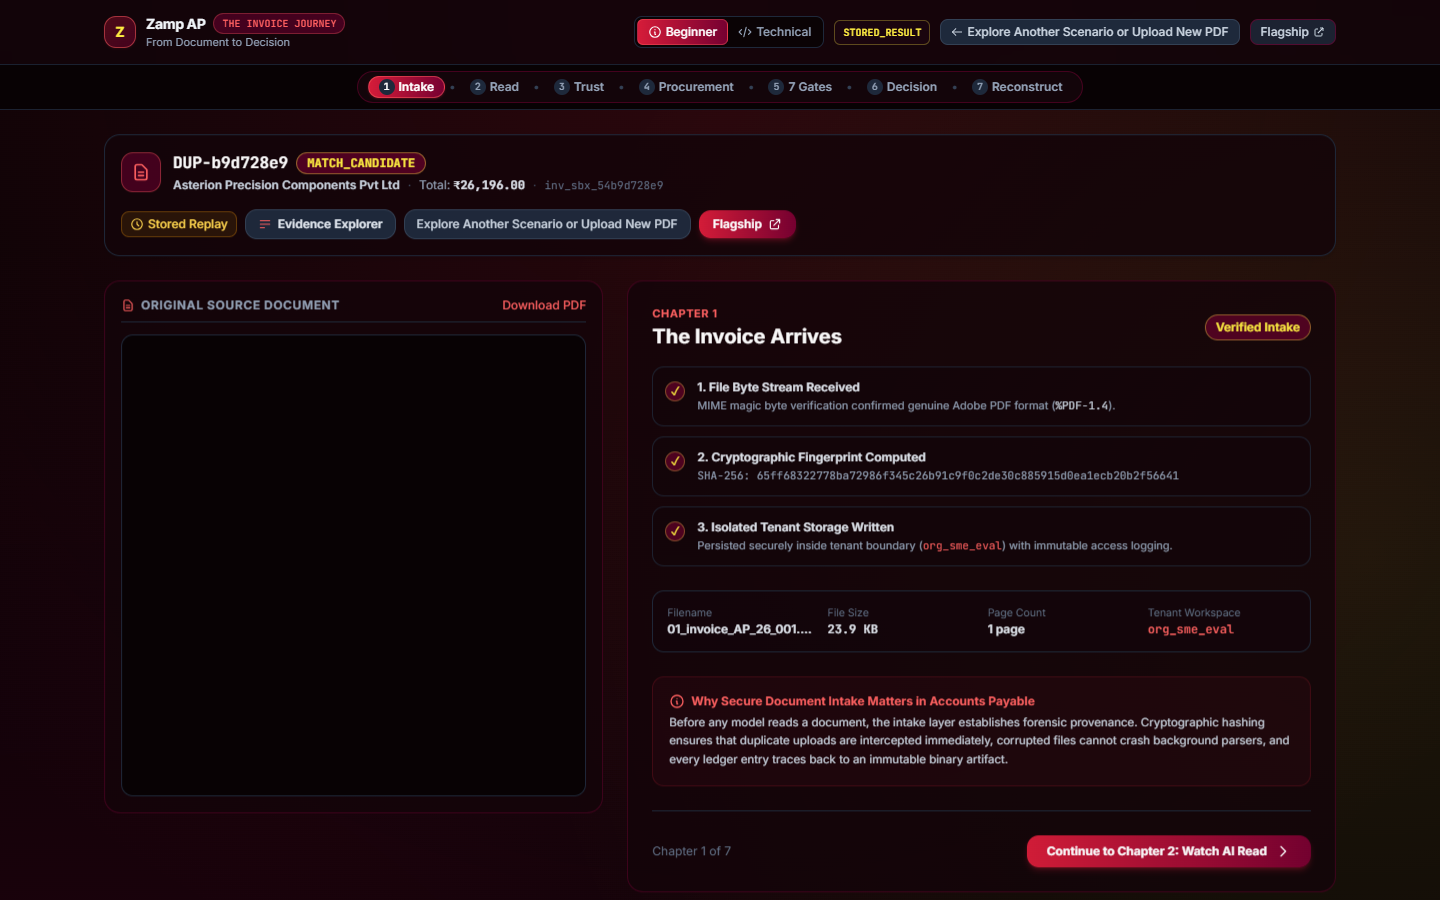
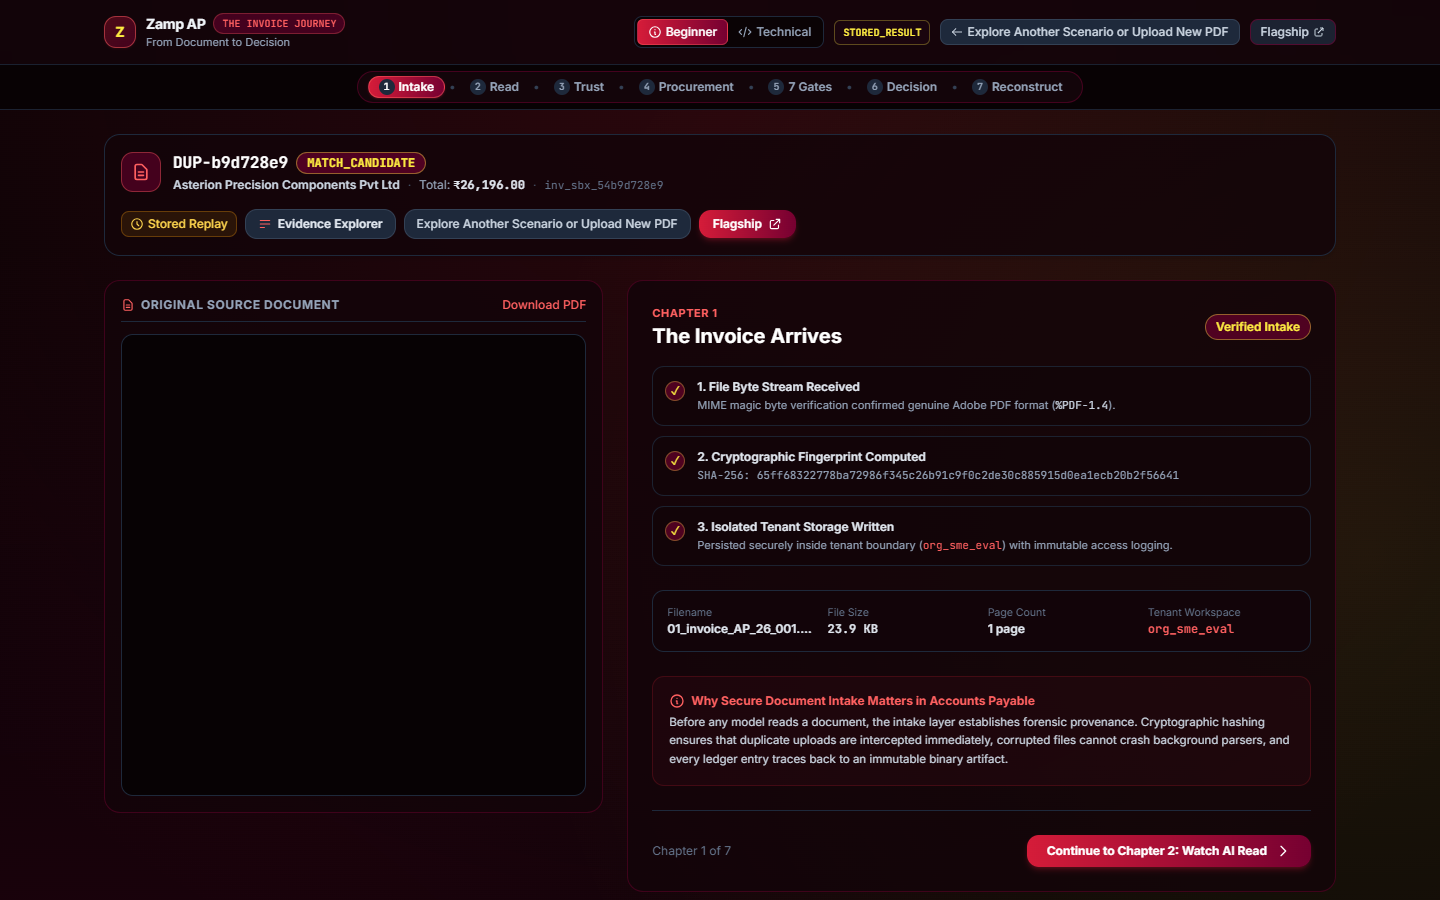
fix(sandbox): add explicit evaluator auth verification and session recovery to uploadCustomPdf

diff --git a/engine/templates/sandbox.html b/engine/templates/sandbox.html
@@ -1664,6 +1664,14 @@
 
     // Upload custom PDF
     async function uploadCustomPdf(file) {
+      if (!getAuthToken()) {
+        const shouldLogin = confirm("Authentication required: Live invoice ingestion requires an authenticated evaluation session. Would you like to log in to the AP Command Center now?");
+        if (shouldLogin) {
+          window.location.href = '/login';
+        }
+        return;
+      }
+
       resetViews();
       document.getElementById('scene-landing').classList.add('hidden');
       document.getElementById('processing-view').classList.remove('hidden');
@@ -1680,6 +1688,17 @@
           headers: getAuthHeaders(),
           body: formData,
         });
+
+        if (res.status === 401) {
+          stopTimer();
+          const shouldLogin = confirm("Session expired or unauthorized. Would you like to log in to the AP Command Center to process custom invoices?");
+          if (shouldLogin) {
+            window.location.href = '/login';
+          } else {
+            returnToLanding();
+          }
+          return;
+        }
 
         if (res.status === 409) {
           const conflictData = await res.json();
